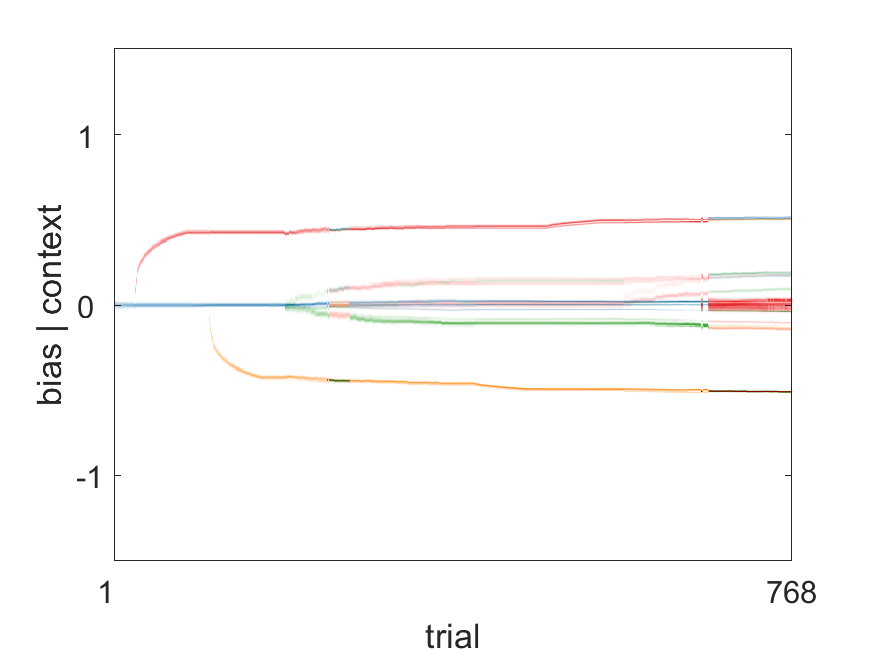
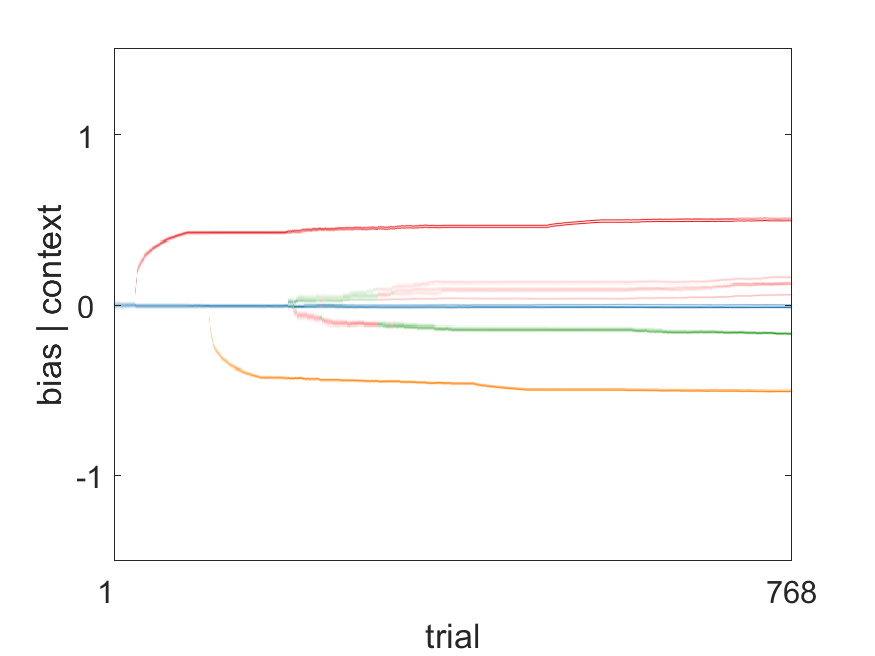
datafit

diff --git a/fit_DMdata.m b/fit_DMdata.m
@@ -1,0 +1,102 @@
+data_path = '/data/DMdata/';
+
+perturbations = readmatrix(fullfile(data_path, 'perturbations.csv'));
+adaptation = readmatrix(fullfile(data_path, 'adaptation.csv'));
+
+[P, trials] = size(perturbations);
+
+% number of runs that are used to estimate the negative log-likelihood
+runs = 4;
+warning('consider increasing the number of runs that are used to estimate the negative log-likelihood')
+            
+% number of CPUs available (0 performs serial processing)
+max_cores = feature('numcores');
+warning('consider performing parallel computing on a computer cluster with more CPUs to speed up parameter optimisation')
+
+% create an array of objects of the COIN class (one object in the array per participant)
+object_fit = create_object_array(perturbations,adaptation,runs,max_cores);
+
+% define the objective to be optimised (the negative log-likelihood)
+objective = @(param) fit_COIN(object_fit,param);
+
+warning('consider changing the parameter bounds used by BADS')
+lb  = [1e-3 0.2    1   1   1e-2 1e-6 1e-4   1e-6]; % lower bounds
+plb = [1e-2 0.5    10  10  5e-2 1e-2 1e-3   1e-4]; % plausible lower bounds
+pub = [2e-1 0.9    1e5 1e7 2e-1 1e5  0.9    1e2 ]; % plausible upper bounds
+ub  = [5e-1 1-1e-6 1e7 1e9 3e-1 1e6  1-1e-4 1e4 ]; % upper bounds
+
+% random initial parameters inside plausible region
+x0 = plb + (pub-plb).*rand(1,numel(plb));
+
+% BADS options
+options = [];
+options.UncertaintyHandling = 1; % tell BADS that the objective is noisy
+options.NoiseFinalSamples = 1; % # samples to estimate FVAL at the end (default is 10) - considering increasing if obj.runs is small
+
+% fit the COIN model to the average synthetic adaptation data using BADS
+tic;
+[maximum_likelihood_parameters,fval,exitflag,output] = bads(objective,x0,lb,ub,plb,pub,[],options);
+warning('consider repeating parameter optimisation from multiple initial points')
+elapsedTime = toc;
+
+
+function obj = create_object_array(perturbations,adaptation,runs,max_cores)
+
+    % number of participants
+    P = size(adaptation,1);
+
+    % array of objects (one object per participant)
+    obj(1,P) = COIN;
+    
+    % define object properties for each participant
+    for participant = 1:P
+
+        % sequence of perturbations (may be unique to each participant)
+        obj(participant).perturbations = perturbations(participant,:);
+        
+        % sequence of sensory cues (may be unique to each participant)
+%         obj(participant).cues = cues(participant,:);
+
+        % adaptation (unique to each participant)
+        obj(participant).adaptation = adaptation(participant,:);
+            
+        % number of runs
+        obj(participant).runs = runs;
+            
+        % number of CPUs available (0 performs serial processing)
+        obj(participant).max_cores = max_cores;
+
+    end
+    
+end
+
+function negative_log_likelihood = fit_COIN(obj,param)
+
+    % number of participants
+    P = length(obj);
+
+    % set the parameters for each participant
+    for participant = 1:P
+        
+        set_parameters(obj(participant),param);
+        
+    end
+    
+    % compute the objective
+    negative_log_likelihood = obj.objective_COIN;
+    
+end
+    
+function set_parameters(obj,param)  
+
+    % parameters (shared by all participants)
+    obj.sigma_process_noise = param(1);         % standard deviation of process noise
+    obj.prior_mean_retention = param(2);        % prior mean of retention
+    obj.prior_precision_retention = param(3)^2; % prior precision (inverse variance) of retention
+    obj.prior_precision_drift = param(4)^2;     % prior precision (inverse variance) of drift
+    obj.sigma_motor_noise = param(5);           % standard deviation of motor noise
+    obj.alpha_context = param(6);               % alpha hyperparameter of the Chinese restaurant franchise for the context transitions
+    obj.rho_context = param(7);                 % rho (self-transition) hyperparameter of the Chinese restaurant franchise for the context transitions
+%     obj.alpha_cue = param(8);                   % alpha hyperparameter of the Chinese restaurant franchise for the cue emissions
+    
+end

diff --git a/motor_out_plot.m b/motor_out_plot.m
@@ -1,13 +1,14 @@
-figure;
+figure
+plot(obj_DM.perturbations - OUTPUT.weights*motor_output)
+grid on;
+xlim([0,800]);
+ylim([-1.2,1.2]);
+legend("perturbations - motor output")
 
-% Loop over the figures
-for i = 1:10
-    % Create a subplot for each figure
-    subplot(5, 2, i);
-    
-    % Load and display the i-th figure
-    img = imread(fullfile('.', 'figureoutput_COIN', ['figure' num2str(i) '.png']));
-    imshow(img);
-    
-    title(['Figure ', num2str(i)]);
-end
+
+% % Save all figures
+% for i = 1:10
+%     figure(i);
+%     % Append the folder 'figures' before the filename
+%     print(fullfile('.', 'figureoutput_COIN', ['figure' num2str(i) '.png']), '-dpng');
+% end

diff --git a/DMexp_sim.m b/DMexp_sim.m
@@ -14,7 +14,7 @@ obj_DM = COIN;
 
 obj_DM.perturbations = [zeros(1,24) ones(1,60) zeros(1,24) -ones(1,60) zeros(1,24) randomNumbers zeros(1,24) -ones(1,60) zeros(1,24) ones(1,60) zeros(1,24) randomNumbers];
 
-obj_DM.runs = 10;
+obj_DM.runs = 5;
 obj_DM.max_cores = feature('numcores');
 
 obj_DM.infer_bias = true;
